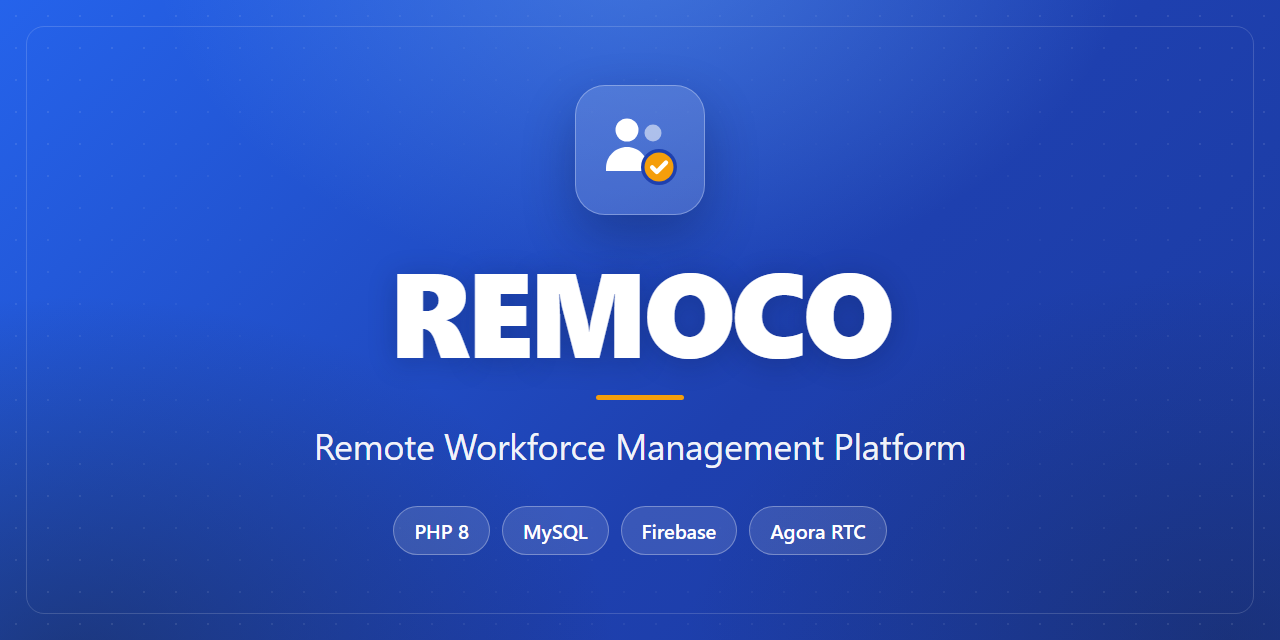
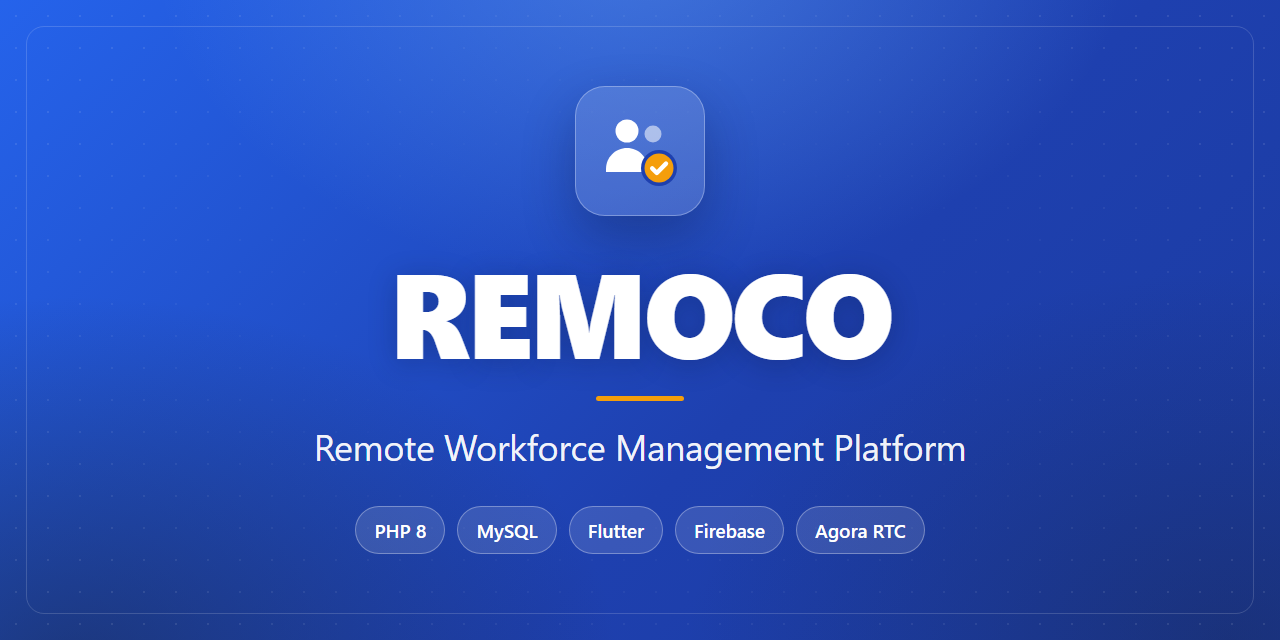
Update docs for web and mobile platform

Changed region(s): [[0.25, 0.7812, 0.75, 0.875], [0.25, 0.6875, 0.75, 0.7188], [0.4688, 0.2188, 0.5312, 0.2812]]

diff --git a/README.md b/README.md
@@ -82,10 +82,19 @@ integration, and real-time communication — without a framework doing the work.
 - Per-role reports covering the same ground at the scope that role can see, plus checkpoint
   progress and member workload
 
+### Mobile client (Flutter)
+- Native app covering the same four roles as the web client — Company/Admin, Project Manager,
+  Team Lead, Team Member
+- Talks to a dedicated REST API (`public/api/`) that returns JSON
+- Bearer-token authentication issued at login and attached to every request through a single
+  HTTP wrapper; the server scopes each query to the token's identity, company, and role
+- Real-time chat (Firebase) and video calls (Agora) from the device
+
 ### Cross-cutting
 - Multi-tenant data isolation by company ID, enforced in every task query and mutation
 - Password hashing with `password_hash()` / bcrypt
-- CSRF protection on every authenticated state-changing request
+- CSRF protection on every authenticated state-changing web request; stateless bearer tokens
+  on the mobile API
 - Session hardening: `HttpOnly` / `SameSite` / `Secure` cookies and id regeneration at login
 - Real-time messaging (Firebase Realtime Database)
 - Peer-to-peer video calls (Agora RTC)
@@ -140,17 +149,21 @@ integration, and real-time communication — without a framework doing the work.
 
 ## Architecture
 
+Two clients — a server-rendered web app and a native Flutter app — sit over one PHP backend
+and one MySQL database. The web app renders its own pages and holds a session; the mobile app
+talks to a token-authenticated REST API that returns JSON.
+
 ```mermaid
 graph TB
-    subgraph Client["Browser"]
-        UI["Server-rendered pages<br/>HTML · CSS · vanilla JS · jQuery"]
+    subgraph Clients["Clients"]
+        WEB["Web app<br/>server-rendered · HTML · CSS · vanilla JS · jQuery"]
+        MOB["Mobile app<br/>Flutter · Dart"]
     end
 
-    subgraph App["Application Layer — PHP 8"]
-        AUTH["Authentication<br/>login.php · session guards"]
-        ROLE["Role-based pages<br/>admin · pm · tl · tm"]
-        API["JSON endpoints<br/>file_upload · get_files · video_call"]
-        CFG["config.php<br/>single source of configuration"]
+    subgraph Backend["Backend — PHP 8"]
+        WPAGES["Web pages<br/>login · role dashboards · reports"]
+        API["REST API<br/>public/api · bearer-token auth<br/>login · tasks · chats · files · calls"]
+        CFG["includes/<br/>config · api_config · shared helpers"]
     end
 
     subgraph Data["Persistence"]
@@ -160,37 +173,44 @@ graph TB
 
     subgraph External["Third-party services"]
         FB[("Firebase<br/>Realtime Database")]
-        AG["Agora RTC<br/>WebRTC video"]
+        AG["Agora RTC<br/>video"]
     end
 
-    UI -->|"HTTP POST / GET"| AUTH
-    AUTH -->|"session established"| ROLE
-    UI -->|"AJAX"| API
-    ROLE --> CFG
+    WEB -->|"HTTP · session cookie"| WPAGES
+    MOB -->|"HTTPS · Bearer token (JSON)"| API
+    WPAGES --> CFG
     API --> CFG
-    ROLE -->|"PDO, prepared statements"| DB
-    API -->|"mysqli, prepared statements"| DB
+    WPAGES -->|"PDO, prepared statements"| DB
+    API -->|"PDO, prepared statements"| DB
+    WPAGES --> FS
     API --> FS
-    UI <-->|"WebSocket — messages"| FB
-    UI <-->|"peer media streams"| AG
-    CFG -.->|"injects client config"| UI
+    WEB <-->|"messages"| FB
+    MOB <-->|"messages"| FB
+    WEB <-->|"peer media"| AG
+    MOB <-->|"peer media"| AG
 
     classDef ext fill:#fff4e6,stroke:#f59e0b,color:#000
     classDef data fill:#e6f4ff,stroke:#2563eb,color:#000
+    classDef client fill:#eef2ff,stroke:#4f46e5,color:#000
     class FB,AG ext
     class DB,FS data
+    class WEB,MOB client
 ```
 
-**Request lifecycle.** Every page is a self-contained PHP script. It requires
+**Web request lifecycle.** Every page is a self-contained PHP script. It requires
 `session_bootstrap.php` (which applies the cookie flags, starts the session, and exposes the
 CSRF helpers), enforces its own role guard, loads `includes/config.php`, opens a database
 connection, runs its queries, and renders HTML. There is no front controller and no router —
 navigation is direct links plus a `?page=` query parameter on the dashboards, which the
-shells resolve against an allow-list derived from their own sidebar.
+shells resolve against an allow-list derived from their own sidebar. Cross-cutting concerns
+live in shared includes under `includes/` — session handling, configuration, pagination, and
+report presentation each have one home.
 
-Cross-cutting concerns live in four small shared includes — `session_bootstrap.php`,
-`config.php`, `pagination.php`, and `report_styles.php`, all under `includes/` — so session handling,
-configuration, pagination, and report presentation each have one home.
+**API request lifecycle.** Each mobile endpoint requires `_bootstrap.php`, which loads
+`includes/api_config.php`, opens the database, and exposes the auth helpers. A login endpoint
+mints a stateless, HMAC-signed bearer token; every other endpoint calls `require_auth()`,
+decodes the token, and scopes each query to the caller's identity, company, and role — so the
+mobile client is held to the same tenant and role boundaries as the web client.
 
 ### Data model
 
@@ -364,12 +384,39 @@ php -S localhost:8000 -t public
 # then open http://localhost:8000
 ```
 
+### Mobile client
+
+The Flutter app lives in [`mobile/`](mobile) and talks to the REST API in `public/api/`. It
+needs the Dart toolchain plus its own configuration:
+
+```bash
+cd mobile
+flutter pub get
+
+# Firebase config is git-ignored — copy the templates and fill in your project, or run
+# `flutterfire configure`
+cp lib/firebase_options.dart.example lib/firebase_options.dart
+cp android/app/google-services.example.json android/app/google-services.json
+
+# point the app at your API host (e.g. 10.0.2.2 for an Android emulator)
+#   edit lib/services/api_constants.dart
+
+flutter run
+```
+
+The API needs its own config file (see below). Full detail is in
+[mobile/README.md](mobile/README.md).
+
 ---
 
 ## Configuration
 
-All configuration lives in a single file, `includes/config.php`, created from
-`config.example.php`. Nothing else in the codebase contains credentials.
+The **web app** reads `includes/config.php`; the **mobile API** reads
+`includes/api_config.php`. Both are created from committed `*.example.php` templates, both are
+git-ignored, and both live outside `public/` so they are never reachable over HTTP. Nothing
+else in the codebase contains credentials.
+
+**Web** — `includes/config.php` (from `config.example.php`)
 
 | Setting | Purpose |
 |---|---|
@@ -379,8 +426,18 @@ All configuration lives in a single file, `includes/config.php`, created from
 | `FIREBASE_DATABASE_URL_REGIONAL` | Regional RTDB endpoint, used by chat pages |
 | `AGORA_APP_ID`, `AGORA_TOKEN` | Agora RTC credentials for video calls |
 
+**Mobile API** — `includes/api_config.php` (from `api_config.example.php`)
+
+| Setting | Purpose |
+|---|---|
+| `$host`, `$username`, `$password`, `$dbname` | MySQL connection |
+| `API_TOKEN_SECRET` | Signs the bearer tokens the login endpoints issue — keep secret |
+| `API_TOKEN_TTL` | How long an issued token stays valid (seconds) |
+| `API_ALLOWED_ORIGIN` | Optional CORS origin (never `*`) |
+| `AGORA_APP_ID` | Agora App ID returned to the client for video calls |
+
 Every value may also be supplied as a real environment variable, which takes precedence
-over the file. See [.env.example](.env.example) for the variable names.
+over the file. See [.env.example](.env.example) for the web variable names.
 
 ### Firebase & Agora
 

diff --git a/RELEASE_NOTES.md b/RELEASE_NOTES.md
@@ -106,14 +106,20 @@ permissive server configuration.
 
 ### Requirements
 
+**Backend (web app + REST API)**
 - PHP 8.0+ with `pdo_mysql` and `mysqli`
 - MySQL 5.7+ or MariaDB 10.4+
 - A Firebase project with Realtime Database enabled, for chat
 - An Agora project, for video calling
 
-Chat and video require your own Firebase and Agora credentials in `includes/config.php`. The rest of
-the application — authentication, task management, reporting, file sharing — runs with only a
-database.
+**Mobile client**
+- The Flutter SDK and Dart toolchain (`flutter pub get`, `flutter run`)
+- Its own Firebase configuration (`mobile/lib/firebase_options.dart`) — kept out of version
+  control; copy from the committed template
+
+Chat and video require your own Firebase and Agora credentials — in `includes/config.php` for
+the web app and `includes/api_config.php` for the mobile API. The rest of both clients —
+authentication, task management, reporting, file sharing — runs with only a database.
 
 ---
 
